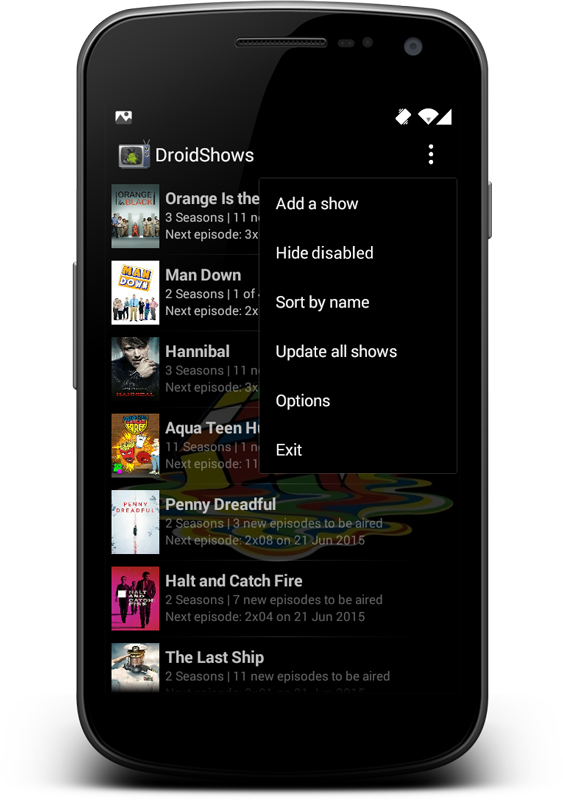
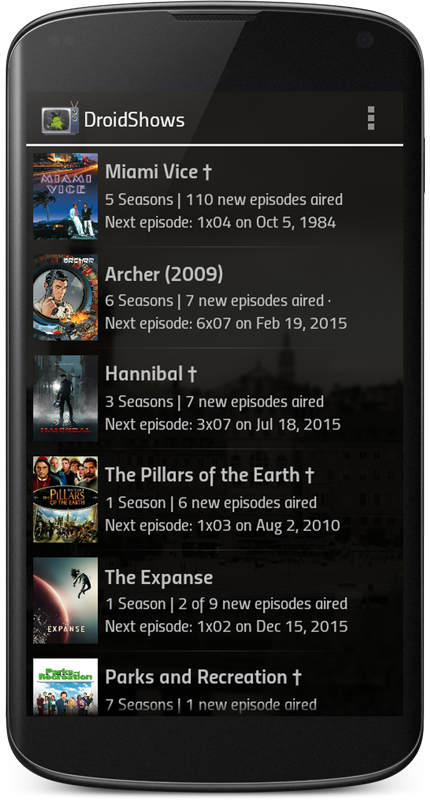
6.5: Remove out-of-place fastScrollTrackDrawable; No more Iterator used via for(.. : ..) in AsyncTask, now using counter (ConcurrentModificationException again); Fix to allow switching between current/archived shows after restoring backup & canceling update all; New screenshot.

diff --git a/src/nl/asymmetrics/droidshows/DroidShows.java b/src/nl/asymmetrics/droidshows/DroidShows.java
@@ -310,7 +310,7 @@ public class DroidShows extends ListActivity
 		listView.setEmptyView(findViewById(R.id.empty_notext));
 		seriesAdapter.clear();
 		lastStatsUpdate = "";
-		showArchive ^= 1;
+		showArchive = (showArchive + 1) % 2;
 		getSeries();
 		asyncInfo = new AsyncInfo();
 		asyncInfo.execute();
@@ -1008,7 +1008,8 @@ public class DroidShows extends ListActivity
 		protected Void doInBackground(Void... params) {
 			String newAsync = dateFormat.format(new Date());
 			if (!lastStatsUpdate.equals(newAsync)) {
-				for (TVShowItem serie : series) {
+				for (int i = 0; i < series.size(); i++) {
+					TVShowItem serie = series.get(i);
 					if (isCancelled()) return null;
 					String serieId = serie.getSerieId();
 					int unwatched = db.getEPUnwatched(serieId);

diff --git a/readme.md b/readme.md
@@ -16,7 +16,7 @@ __In Show/Episode Details__:
 
 [Homepage](http://ltguillaume.github.io/DroidShows)  
 [Wiki (FAQ)](https://github.com/ltGuillaume/DroidShows/wiki)  
-[Screenshots & comparison with original DroidSeries](http://gallery.asymmetrics.nl/index.php?sfpg=RHJvaWRTZXJpZXMvKioxZTNiOGI1MjAwYzk0ZTE4OTVmZTRmYWIxOTBjNDAyYQ)  
+[Screenshots & comparison with original DroidSeries](http://gallery.asymmetrics.nl/index.php?sfpg=RHJvaWRTZXJpZXMvKipkNGNiZTJhYzk1NjZmYWIwOTZhYWZiNGM4OWQyMTYyMA)  
 [XDA Forum post / Changelog](http://forum.xda-developers.com/showthread.php?t=3136787)  
 __Download APK__: from XDA forum post, [F-Droid Repository](https://f-droid.org/repository/browse/?fdid=nl.asymmetrics.droidshows) or [here](https://github.com/ltGuillaume/DroidShows/releases)
 
